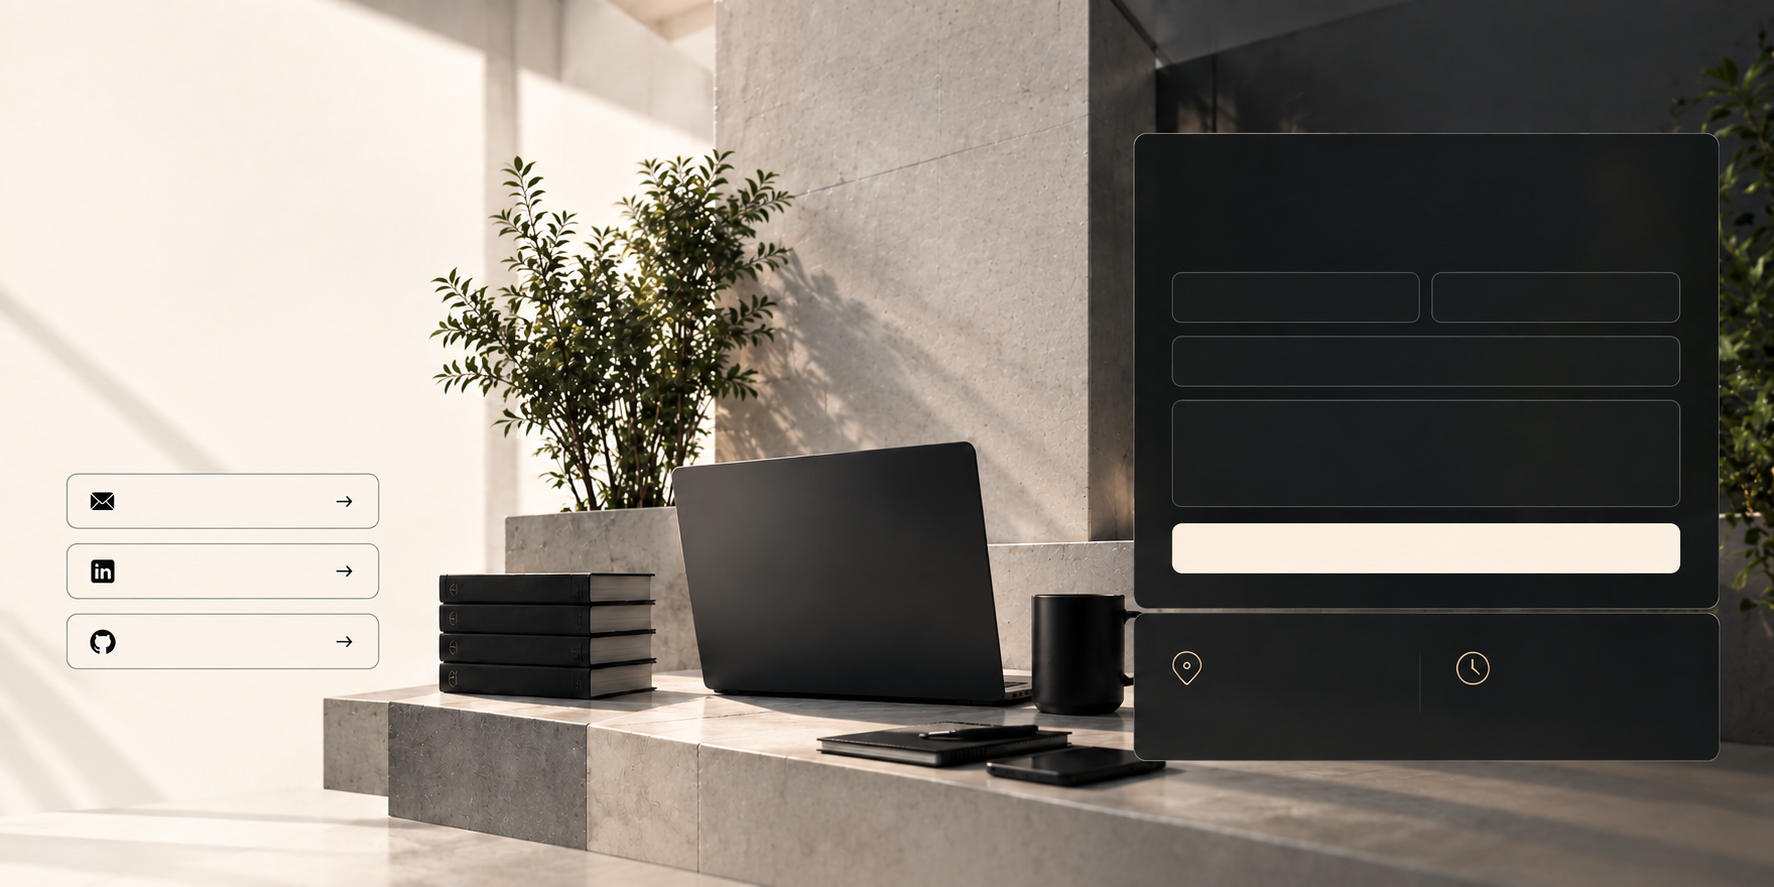
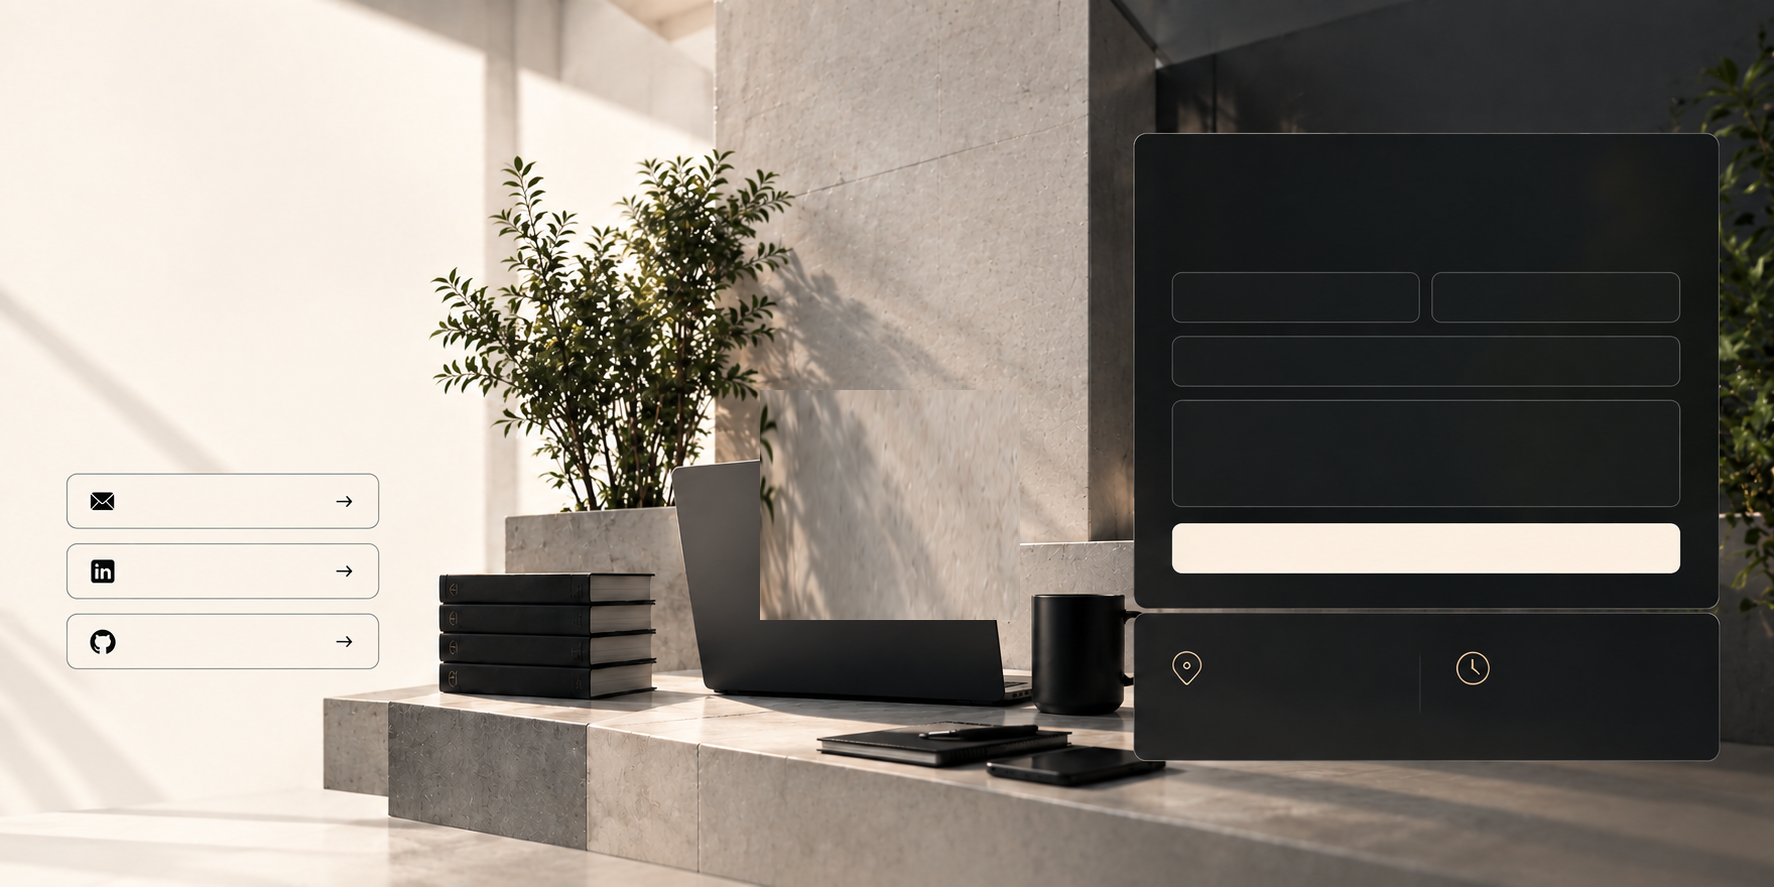
Erase pre-rendered empty pills from contact-hero-bg.png and replace static skills cube image with interactive 3D Glass Tech Core & capability cards

Changed region(s): [[0.403, 0.4262, 0.5891, 0.7001]]

diff --git a/src/styles.css b/src/styles.css
@@ -13,7 +13,121 @@ button,a{font:inherit}button{cursor:pointer}
 .about-bg{filter:none}.about-overlay{position:absolute;inset:0;background:linear-gradient(90deg,rgba(5,7,8,.1),transparent 65%),linear-gradient(180deg,rgba(0,0,0,.08),rgba(0,0,0,.75));z-index:1}.about-copy{position:absolute;left:4.6%;top:50%;transform:translateY(-48%);width:47%;z-index:5}.about-copy>p{max-width:610px;color:#dedbd5;font-size:15px;line-height:1.6;margin:24px 0}.feature-row{display:flex;margin:34px 0 30px}.feature{display:flex;align-items:center;gap:10px;padding:0 22px;border-left:1px solid var(--line);min-width:145px}.feature:first-child{border:0;padding-left:0}.feature svg{color:#e4c18f;width:28px}.feature span{font-size:12px;line-height:1.2}.about-label{position:absolute;z-index:5;font-size:17px;color:#eee}.ideas{right:46%;top:18%}.tech{right:13%;top:24%}.people{right:48%;top:52%}.impact{right:11%;top:57%}.wall-scribble{position:absolute;right:3%;top:30%;z-index:5;color:rgba(255,255,255,.4);font-size:22px;line-height:1.05}
 .projects{min-height:100vh;padding:120px 5vw 70px;display:grid;grid-template-columns:26% 1fr;gap:5vw;align-items:center}.projects-intro h2{font-size:clamp(48px,5vw,78px);line-height:.95;letter-spacing:-3px;margin:0}.projects-intro h2 em{color:#9d7750;font-style:normal}.projects-intro p{color:#777;line-height:1.6;font-size:14px;max-width:310px;margin:22px 0 30px}.project-controls{display:flex;align-items:center;gap:16px;color:#666}.project-controls button{width:36px;height:36px;border:1px solid #bbb;background:transparent;border-radius:50%;display:grid;place-items:center}.project-stage{display:grid;grid-template-columns:minmax(0,1fr) 180px;gap:18px}.featured-project{background:#fff;border:1px solid #ddd;border-radius:20px;padding:16px;box-shadow:0 18px 50px rgba(0,0,0,.07)}.project-image-wrap{position:relative;border-radius:14px;overflow:hidden;background:#101314}.project-image-wrap img{width:100%;height:340px;object-fit:cover;display:block}.featured-pill{position:absolute;top:15px;right:15px;background:#f4e5bd;color:#16120d;border-radius:999px;padding:8px 12px;font-size:10px;font-weight:700}.project-info{padding:18px 6px 4px}.project-eyebrow{font-size:9px;letter-spacing:2px;color:#8c755d}.project-info h3{font-size:27px;margin:8px 0}.project-info p{font-size:13px;color:#666;line-height:1.55;max-width:620px}.tags{display:flex;flex-wrap:wrap;gap:6px;margin:14px 0}.tags span{padding:7px 9px;border:1px solid #ddd;border-radius:999px;font-size:9px;color:#666}.project-actions{display:flex;gap:8px}.side-project{border:1px solid #ddd;background:#fff;border-radius:15px;padding:8px;text-align:left;cursor:pointer}.side-project img{width:100%;height:115px;object-fit:cover;border-radius:10px;display:block}.side-project small{display:block;font-size:7px;color:#888;margin-top:9px}.side-project strong{display:block;font-size:13px;margin-top:3px}
 .detail{background:#0a0c0d;padding:130px 5vw 70px;display:grid;grid-template-columns:40% 1fr;grid-template-rows:1fr auto;gap:30px;align-items:center}.detail-copy{max-width:570px}.detail-copy .detail-sub{font-size:20px;color:#e8e4dc;margin-top:5px}.detail-copy p{color:#a8a8a4;line-height:1.65;font-size:14px;max-width:520px}.detail-buttons{display:flex;gap:10px;margin-top:25px}.detail-image{border:1px solid #303334;border-radius:20px;overflow:hidden;box-shadow:0 25px 80px rgba(0,0,0,.3)}.detail-image img{width:100%;height:440px;object-fit:cover;display:block}.detail-features{grid-column:1/-1;display:grid;grid-template-columns:repeat(4,1fr);gap:15px;border-top:1px solid #292b2c;padding-top:18px}.detail-features span{display:flex;gap:9px;align-items:center;color:#bbb;font-size:11px}.detail-features svg{width:17px;color:#d8b584}
-.skills{min-height:80vh;padding:120px 5vw 80px;background:#0d0f10;color:white;display:grid;grid-template-columns:28% 40% 32%;gap:3vw;align-items:center;position:relative;overflow:hidden}.skills-copy h2{color:white}.skills-copy h2 em{color:#d6b27f}.skills-copy p{color:#a0a09c;line-height:1.6;font-size:14px;max-width:320px;margin:23px 0 30px}.skills-visual{height:380px;display:flex;align-items:center;justify-content:center;position:relative;border-radius:20px;background:radial-gradient(circle at center,rgba(214,178,127,.1) 0%,transparent 70%)}.skills-visual img{max-width:100%;max-height:100%;object-fit:contain;filter:drop-shadow(0 15px 35px rgba(0,0,0,.5));transition:transform .4s ease}.skills-visual:hover img{transform:scale(1.04)}.skill-list{border-left:1px solid rgba(255,255,255,.12);padding-left:30px;display:flex;flex-direction:column;gap:16px}.skill-list div{padding:12px 0;border-bottom:1px solid rgba(255,255,255,.08);display:flex;flex-direction:column;gap:4px}.skill-list div:last-child{border-bottom:none}.skill-list strong{font-size:14px;color:#e5e0d8;font-weight:600;letter-spacing:.2px}.skill-list span{font-size:12px;color:#8e8e8a;line-height:1.4}
+
+.skills {
+  min-height: 85vh;
+  padding: 120px 5vw 90px;
+  background: #080a0b;
+  color: white;
+  display: grid;
+  grid-template-columns: 28% 34% 38%;
+  gap: 2.5vw;
+  align-items: center;
+  position: relative;
+  overflow: hidden;
+}
+.skills-copy h2 { color: white; }
+.skills-copy h2 em { color: #d6b27f; }
+.skills-copy p { color: #a0a09c; line-height: 1.6; font-size: 14px; max-width: 320px; margin: 23px 0 30px; }
+
+/* Central Glass Core */
+.skills-core-visual {
+  height: 380px;
+  display: flex;
+  align-items: center;
+  justify-content: center;
+  position: relative;
+}
+.core-orbit-ring {
+  position: absolute;
+  border-radius: 50%;
+  border: 1px solid rgba(214,178,127,0.15);
+  animation: spinRing 20s linear infinite;
+}
+.ring-1 { width: 300px; height: 300px; border-style: dashed; }
+.ring-2 { width: 240px; height: 240px; animation-direction: reverse; animation-duration: 15s; }
+
+@keyframes spinRing {
+  from { transform: rotate(0deg); }
+  to { transform: rotate(360deg); }
+}
+
+.core-glass-card {
+  position: relative;
+  z-index: 5;
+  background: rgba(18, 22, 25, 0.85);
+  backdrop-filter: blur(16px);
+  -webkit-backdrop-filter: blur(16px);
+  border: 1px solid rgba(255, 255, 255, 0.12);
+  border-radius: 20px;
+  padding: 26px 20px;
+  text-align: center;
+  box-shadow: 0 20px 50px rgba(0,0,0,0.5), inset 0 1px 0 rgba(255,255,255,0.15);
+  display: flex;
+  flex-direction: column;
+  align-items: center;
+  gap: 8px;
+  max-width: 270px;
+}
+.core-glow-point {
+  position: absolute;
+  top: -20px;
+  width: 90px;
+  height: 90px;
+  background: rgba(214, 178, 127, 0.2);
+  filter: blur(30px);
+  border-radius: 50%;
+  pointer-events: none;
+}
+.core-icon { color: #d6b27f; margin-bottom: 2px; }
+.core-glass-card h3 { margin: 0; font-size: 15px; color: white; font-weight: 600; }
+.core-glass-card p { margin: 0; font-size: 11px; color: #8a8a86; line-height: 1.4; }
+.core-pills { display: flex; flex-wrap: wrap; gap: 5px; justify-content: center; margin-top: 8px; }
+.core-pills span { font-size: 9px; padding: 3px 8px; border-radius: 999px; background: rgba(255,255,255,0.06); border: 1px solid rgba(255,255,255,0.1); color: #c0bcae; }
+
+/* Right Grid Cards */
+.skills-matrix {
+  display: grid;
+  grid-template-columns: 1fr 1fr;
+  gap: 12px;
+}
+.skill-card {
+  background: rgba(255, 255, 255, 0.03);
+  border: 1px solid rgba(255, 255, 255, 0.08);
+  border-radius: 14px;
+  padding: 14px 14px;
+  transition: all 0.25s ease;
+}
+.skill-card:hover {
+  background: rgba(255, 255, 255, 0.06);
+  border-color: rgba(214, 178, 127, 0.3);
+  transform: translateY(-2px);
+}
+.skill-card-header {
+  display: flex;
+  align-items: center;
+  gap: 8px;
+  margin-bottom: 8px;
+}
+.skill-card-header strong {
+  font-size: 12px;
+  color: #e5e0d8;
+  font-weight: 600;
+}
+.skill-card-tags {
+  display: flex;
+  flex-wrap: wrap;
+  gap: 4px;
+}
+.skill-card-tags span {
+  font-size: 9.5px;
+  color: #a0a09c;
+  background: rgba(0, 0, 0, 0.3);
+  padding: 3px 7px;
+  border-radius: 6px;
+  border: 1px solid rgba(255, 255, 255, 0.05);
+}
+
 .journey>img{filter:brightness(.5)}.journey-overlay{position:absolute;inset:0;background:linear-gradient(90deg,rgba(5,7,8,.82),rgba(5,7,8,.3) 65%,rgba(5,7,8,.18));z-index:1}.journey-copy{position:absolute;left:5%;top:21%;width:38%;z-index:4}.journey-copy p{color:#c0c0bb;line-height:1.6;font-size:14px;max-width:450px;margin:24px 0}.timeline{position:absolute;left:50%;top:15%;width:44%;z-index:4;border-left:1px solid rgba(255,255,255,.45);padding-left:35px}.milestone{position:relative;padding:0 0 20px}.milestone .dot{position:absolute;left:-43px;top:3px;width:16px;height:16px;border:2px solid #eee;border-radius:50%;background:#d8b584}.milestone strong{font-size:18px}.milestone h3{margin:3px 0;font-size:16px}.milestone p{margin:0;color:#b2b2ae;font-size:11px;line-height:1.45;max-width:390px}.journey-stats{position:absolute;bottom:25px;left:5%;right:5%;z-index:5;display:grid;grid-template-columns:repeat(4,1fr);gap:14px}.journey-stats div{border:1px solid rgba(255,255,255,.25);border-radius:13px;padding:13px 17px;background:rgba(0,0,0,.14)}.journey-stats b{font-size:20px}.journey-stats span{display:block;font-size:10px;color:#aaa;margin-top:4px}
 .insights{min-height:80vh;padding:120px 5vw 90px}.insights-head{display:flex;justify-content:space-between;align-items:end;gap:30px}.insights-head h2{font-size:clamp(48px,5vw,75px);line-height:.95;letter-spacing:-3px}.insights-head p{max-width:420px;color:#777;line-height:1.6;font-size:13px}.dark-outline{border-color:#aaa;color:#111}.posts{display:grid;grid-auto-flow:column;grid-auto-columns:calc((100% - 32px) / 3);gap:16px;margin-top:55px;overflow-x:auto;padding-bottom:20px;scrollbar-width:thin}.posts::-webkit-scrollbar{height:6px}.posts::-webkit-scrollbar-thumb{background:#d1cec7;border-radius:4px}.posts article{background:#fff;border:1px solid #ddd;border-radius:14px;overflow:hidden}.posts img{width:100%;height:210px;object-fit:cover;display:block}.post-body{padding:18px}.post-body small{color:#999;font-size:9px}.post-body h3{font-size:16px;margin:8px 0}.post-body p{color:#777;font-size:11px;line-height:1.5}.post-body a{display:inline-flex;gap:8px;align-items:center;color:#222;text-decoration:none;font-size:10px;margin-top:10px}
 .contact{min-height:80vh;padding:120px 5vw 80px;display:grid;grid-template-columns:43% 57%;gap:40px;position:relative;overflow:hidden;align-items:center}.contact-copy{z-index:2}.contact-copy p{color:#777;max-width:430px;line-height:1.6;font-size:14px;margin:23px 0 28px}.contact-links{display:flex;flex-direction:column;gap:12px;max-width:420px}.contact-links a{display:flex;align-items:center;gap:12px;padding:14px 18px;border:1px solid #d8d4cb;background:#ffffff;border-radius:12px;text-decoration:none;color:#181818;font-size:12px;font-weight:500;box-shadow:0 2px 8px rgba(0,0,0,.04);transition:all .2s ease}.contact-links a:hover{border-color:#9d7750;transform:translateY(-2px);box-shadow:0 4px 16px rgba(0,0,0,.08)}.contact-links a svg:first-child{color:#9d7750;flex-shrink:0}.contact-links a svg:last-child{margin-left:auto;color:#888;flex-shrink:0;transition:transform .2s ease}.contact-links a:hover svg:last-child{transform:translateX(4px);color:#181818}.contact-art{border-radius:20px;overflow:hidden;max-height:500px;position:relative;box-shadow:0 15px 45px rgba(0,0,0,.08)}.contact-art img{width:100%;height:auto;object-fit:cover;display:block}.contact-note{position:absolute;right:4%;top:24%;font-size:28px;color:#777;line-height:.95;transform:rotate(4deg)}

diff --git a/src/pages/Skills.jsx b/src/pages/Skills.jsx
@@ -1,32 +1,96 @@
 import React from 'react';
-import { ArrowRight } from 'lucide-react';
+import { ArrowRight, Cpu, Code, Server, Database, Shield, Wrench, Sparkles } from 'lucide-react';
 import SectionKicker from '../components/SectionKicker';
-import { skills } from '../data/portfolioData';
-import skillsCube from '../assets/skills-cube.png';
 
 export default function Skills() {
+  const categories = [
+    {
+      title: "AI / ML & Intelligence",
+      icon: Cpu,
+      color: "#d6b27f",
+      items: ["Python", "OpenAI", "LangChain", "RAG Pipeline", "Vector Search"]
+    },
+    {
+      title: "Frontend & UI",
+      icon: Code,
+      color: "#61dafb",
+      items: ["React.js", "Next.js", "Tailwind CSS", "TypeScript", "Vite"]
+    },
+    {
+      title: "Backend & Systems",
+      icon: Server,
+      color: "#68a063",
+      items: ["Node.js", "Express", "FastAPI", "REST APIs", "WebSockets"]
+    },
+    {
+      title: "Databases & Storage",
+      icon: Database,
+      color: "#47a248",
+      items: ["PostgreSQL", "MongoDB", "Redis", "Pinecone", "MySQL"]
+    },
+    {
+      title: "Cybersecurity & Security",
+      icon: Shield,
+      color: "#ff6b6b",
+      items: ["Threat Detection", "Digital Forensics", "Agent Supervision", "Network Security"]
+    },
+    {
+      title: "DevOps & Tooling",
+      icon: Wrench,
+      color: "#a855f7",
+      items: ["Git / GitHub", "Docker", "Linux", "Postman", "Vercel"]
+    }
+  ];
+
   return (
     <section id="skills" className="skills section-dark">
       <div className="skills-copy">
-        <SectionKicker num="04" dark={true}>SKILLS</SectionKicker>
+        <SectionKicker num="04" dark={true}>SKILLS & CAPABILITIES</SectionKicker>
         <h2>A toolkit<br /><em>for what's next.</em></h2>
         <p>Technologies I use to turn ideas into products. I'm always learning, experimenting, and sharpening the tools that matter.</p>
         <a href="https://github.com/pds-37" target="_blank" rel="noreferrer" className="btn light">
-          Explore My Skills <ArrowRight size={15} />
+          Explore GitHub <ArrowRight size={15} />
         </a>
       </div>
 
-      <div className="skills-visual">
-        <img src={skillsCube} alt="3D Glass Skills Cube" />
+      {/* Animated 3D Glass Tech Core */}
+      <div className="skills-core-visual">
+        <div className="core-orbit-ring ring-1" />
+        <div className="core-orbit-ring ring-2" />
+        <div className="core-glass-card">
+          <div className="core-glow-point" />
+          <Sparkles className="core-icon" size={28} />
+          <h3>AI & Full-Stack Core</h3>
+          <p>Architecting secure, intelligent, end-to-end applications</p>
+          <div className="core-pills">
+            <span>AI / ML</span>
+            <span>Frontend</span>
+            <span>Backend</span>
+            <span>Data</span>
+            <span>Security</span>
+            <span>DevOps</span>
+          </div>
+        </div>
       </div>
 
-      <div className="skill-list">
-        {skills.map(([category, items]) => (
-          <div key={category}>
-            <strong>{category}</strong>
-            <span>{items}</span>
-          </div>
-        ))}
+      {/* Skill Cards Grid */}
+      <div className="skills-matrix">
+        {categories.map((cat) => {
+          const Icon = cat.icon;
+          return (
+            <div key={cat.title} className="skill-card">
+              <div className="skill-card-header">
+                <Icon size={16} style={{ color: cat.color }} />
+                <strong>{cat.title}</strong>
+              </div>
+              <div className="skill-card-tags">
+                {cat.items.map((item) => (
+                  <span key={item}>{item}</span>
+                ))}
+              </div>
+            </div>
+          );
+        })}
       </div>
     </section>
   );
